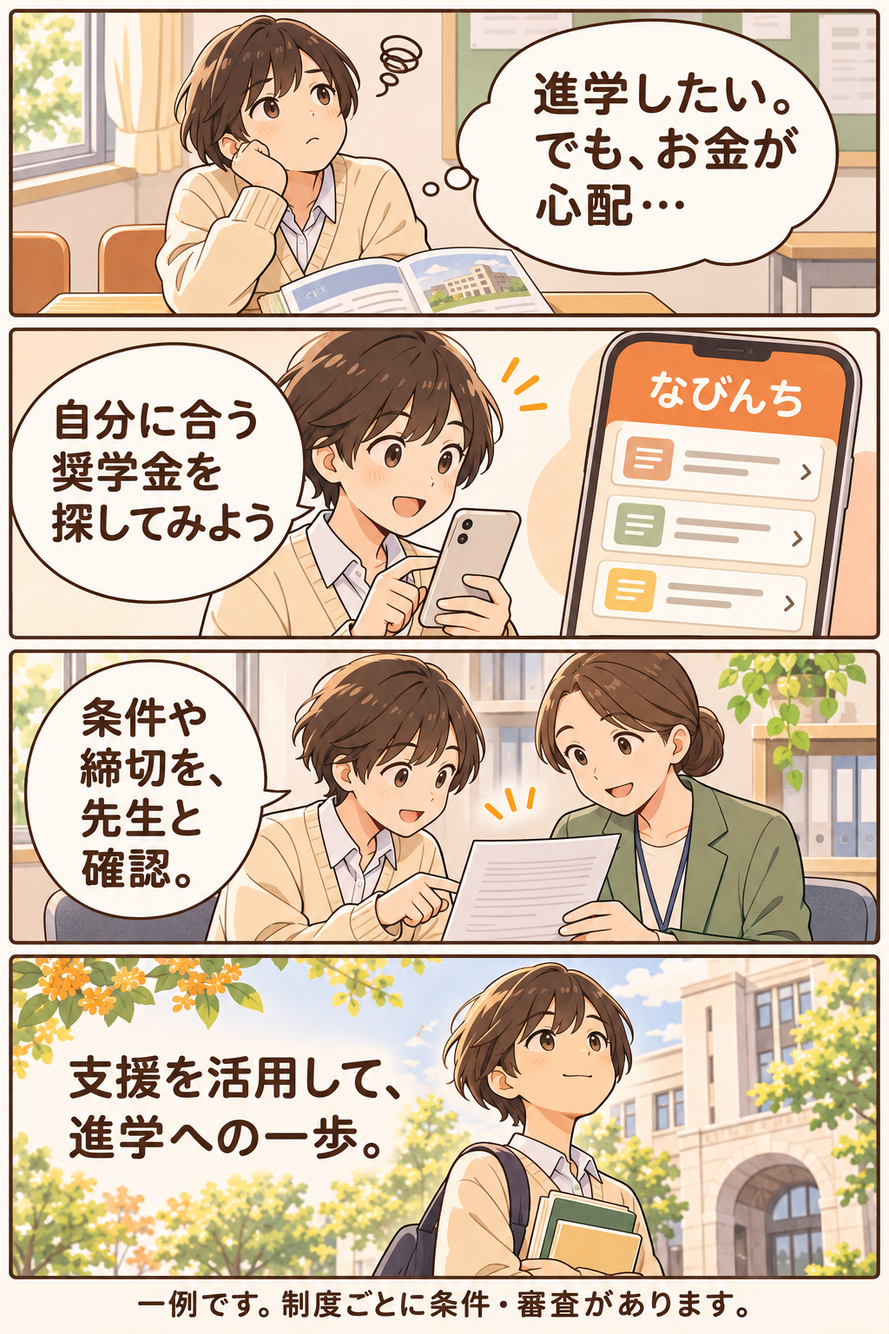
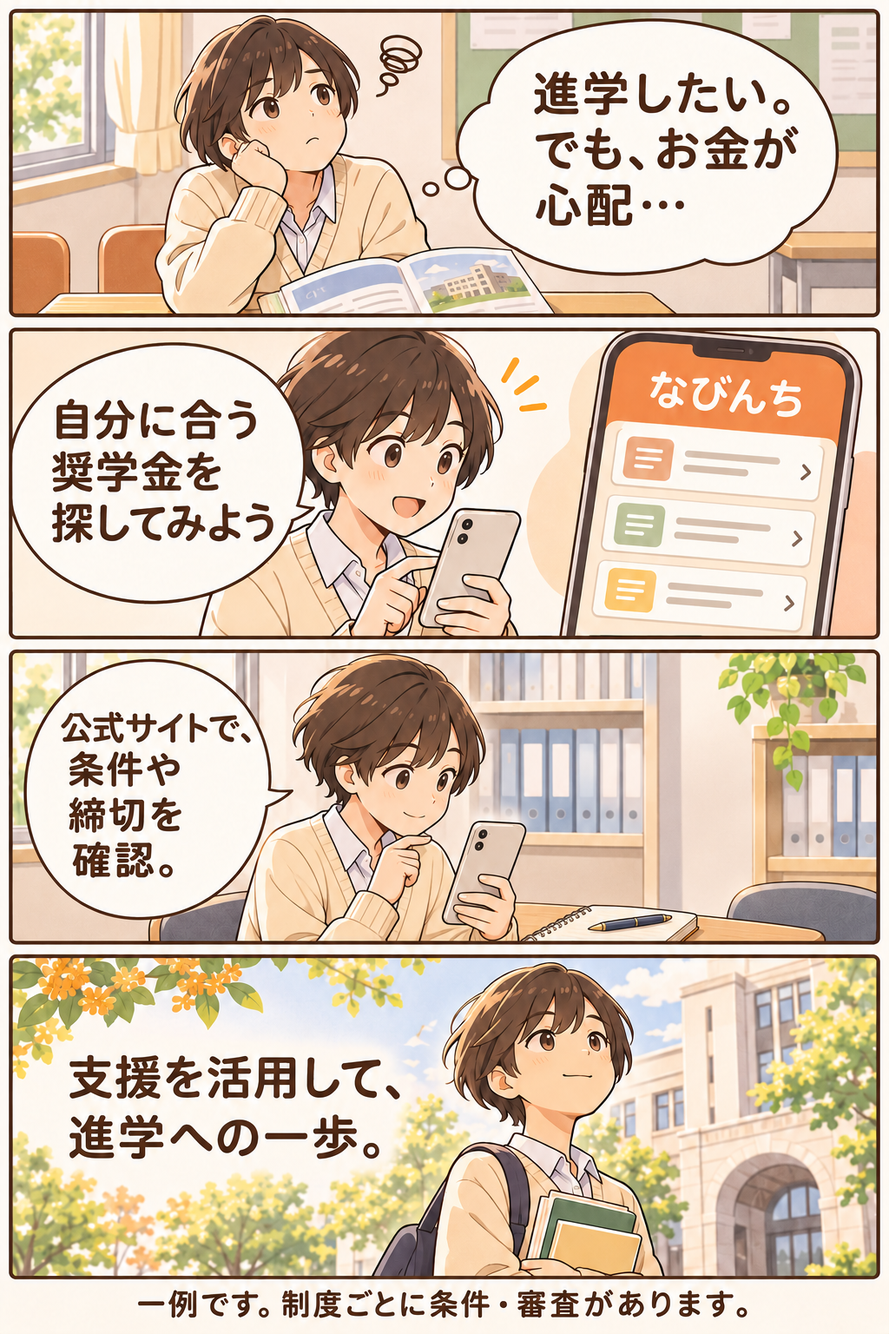
Update なびんち Pages

diff --git a/guide/index.html b/guide/index.html
@@ -1,9 +1,9 @@
 <!DOCTYPE html><html lang="ja"><head><meta charset="utf-8"><meta name="viewport" content="width=device-width, initial-scale=1, viewport-fit=cover, interactive-widget=resizes-content"><meta name="theme-color" content="#fbfaf8"><link rel="icon" type="image/svg+xml" href="/images/navinchi-mark.svg"><meta name="description" content="なびんちの紹介、奨学金・進学支援の探し方、公式情報を確認するときのポイントと相談先。"><meta name="robots" content="noindex,follow"><meta name="googlebot" content="noindex,follow"><meta name="referrer" content="no-referrer"><title>なびんちとは | なびんち | 奨学金・進学支援を探す</title><meta http-equiv="content-security-policy" content="default-src 'self';img-src 'self' data:;connect-src 'self';font-src 'self';frame-src 'none';object-src 'none';base-uri 'self';form-action 'self'; script-src 'self' 'sha256-xIb/Pa7FUshAu4ihwjchYcQpyCI8eS8kt40GpOAYCz8=' 'sha256-1BvDVWLr3QCC20uHhUDi27eDFVJpk1uMQJGIWKUks2I=' 'sha256-kmZE/W8I1iuTnl1b3yqzv9/DQZenPngd3NjSKMQl7y0=' 'sha256-Y8t0ntteBwH+PqGKUyjWW3CAk+BNJKSoQc0xZ68FjhM=' 'sha256-0O7iB6zr9x0r6X6eWYITC9V5q+yWCGAoFvcysBGbY9Q=' 'sha256-UIrFqcaitjA3OKa9mHKajg3N+0Y7tW9+y0o3QmMFeZQ=' 'sha256-At4sXbunobuxXv56+YxR7rwL4c3n8ubyPDiI7CIowSo='; style-src 'self' 'unsafe-inline' ;"><style>.manga-story__pages[data-astro-cid-mzuta5j2]{gap:2rem;padding:0;list-style:none;display:grid}.manga-story[data-astro-cid-mzuta5j2] figure[data-astro-cid-mzuta5j2]{margin:0}.manga-story[data-astro-cid-mzuta5j2] img[data-astro-cid-mzuta5j2]{width:100%;max-width:100%;height:auto;display:block}.manga-story[data-astro-cid-mzuta5j2] figcaption[data-astro-cid-mzuta5j2]{text-align:center;margin-top:.5rem;font-size:.85rem}.manga-story__zoom[data-astro-cid-mzuta5j2]{margin:.75rem 0 0;font-size:.9rem}.manga-story[data-astro-cid-mzuta5j2] details[data-astro-cid-mzuta5j2]{margin-top:.75rem}.manga-story[data-astro-cid-mzuta5j2] summary[data-astro-cid-mzuta5j2]{cursor:pointer}.manga-story[data-astro-cid-mzuta5j2] details[data-astro-cid-mzuta5j2] p[data-astro-cid-mzuta5j2]{white-space:pre-wrap}
-</style><link rel="stylesheet" href="/_astro/BaseLayout.BYQtE-vD.css"></head><body data-footer-layout="document"><a class="skip-link" href="#main" tabindex="0">本文へ移動</a><style>astro-island,astro-slot,astro-static-slot{display:contents}</style><script>(function(){let e=async e=>{await(await e())()};(self.Astro||(self.Astro={})).load=e,window.dispatchEvent(new Event(`astro:load`))})();</script><script>(function(){function e(t){"@babel/helpers - typeof";return e=typeof Symbol==`function`&&typeof Symbol.iterator==`symbol`?function(e){return typeof e}:function(e){return e&&typeof Symbol==`function`&&e.constructor===Symbol&&e!==Symbol.prototype?`symbol`:typeof e},e(t)}function t(t,n){if(e(t)!=`object`||!t)return t;var r=t[Symbol.toPrimitive];if(r!==void 0){var i=r.call(t,n||`default`);if(e(i)!=`object`)return i;throw TypeError(`@@toPrimitive must return a primitive value.`)}return(n===`string`?String:Number)(t)}function n(n){var r=t(n,`string`);return e(r)==`symbol`?r:r+``}function r(e,t,r){return(t=n(t))in e?Object.defineProperty(e,t,{value:r,enumerable:!0,configurable:!0,writable:!0}):e[t]=r,e}let i=/* @__PURE__ */ new Set([`__proto__`,`constructor`,`prototype`]);{let e={0:e=>a(e),1:e=>n(e),2:e=>new RegExp(e),3:e=>new Date(e),4:e=>new Map(n(e)),5:e=>new Set(n(e)),6:e=>BigInt(e),7:e=>new URL(e),8:e=>new Uint8Array(e),9:e=>new Uint16Array(e),10:e=>new Uint32Array(e),11:e=>1/0*e},t=t=>{let[n,r]=t;return n in e?e[n](r):void 0},n=e=>e.map(t),a=e=>typeof e!=`object`||!e?e:Object.fromEntries(Object.entries(e).map(([e,n])=>[e,t(n)]));class o extends HTMLElement{constructor(...e){super(...e),r(this,`Component`,void 0),r(this,`hydrator`,void 0),r(this,`hydrate`,async()=>{var e;if(!this.hydrator||!this.isConnected)return;let t=(e=this.parentElement)==null?void 0:e.closest(`astro-island[ssr]`);if(t){t.addEventListener(`astro:hydrate`,this.hydrate,{once:!0});return}let n=this.querySelectorAll(`astro-slot`),r={},i=this.querySelectorAll(`template[data-astro-template]`);for(let e of i){let t=e.closest(this.tagName);t!=null&&t.isSameNode(this)&&(r[e.getAttribute(`data-astro-template`)||`default`]=e.innerHTML,e.remove())}for(let e of n){let t=e.closest(this.tagName);t!=null&&t.isSameNode(this)&&(r[e.getAttribute(`name`)||`default`]=e.innerHTML)}let o;try{o=this.hasAttribute(`props`)?a(JSON.parse(this.getAttribute(`props`))):{}}catch(e){let t=this.getAttribute(`component-url`)||`<unknown>`,n=this.getAttribute(`component-export`);throw n&&(t+=` (export ${n})`),console.error(`[hydrate] Error parsing props for component ${t}`,this.getAttribute(`props`),e),e}await this.hydrator(this)(this.Component,o,r,{client:this.getAttribute(`client`)}),this.removeAttribute(`ssr`),this.dispatchEvent(new CustomEvent(`astro:hydrate`))}),r(this,`unmount`,()=>{this.isConnected||this.dispatchEvent(new CustomEvent(`astro:unmount`))})}disconnectedCallback(){document.removeEventListener(`astro:after-swap`,this.unmount),document.addEventListener(`astro:after-swap`,this.unmount,{once:!0})}connectedCallback(){if(!this.hasAttribute(`await-children`)||document.readyState===`interactive`||document.readyState===`complete`)this.childrenConnectedCallback();else{let e=()=>{document.removeEventListener(`DOMContentLoaded`,e),t.disconnect(),this.childrenConnectedCallback()},t=new MutationObserver(()=>{var t;((t=this.lastChild)==null?void 0:t.nodeType)===Node.COMMENT_NODE&&this.lastChild.nodeValue===`astro:end`&&(this.lastChild.remove(),e())});t.observe(this,{childList:!0}),document.addEventListener(`DOMContentLoaded`,e)}}async childrenConnectedCallback(){let e=this.getAttribute(`before-hydration-url`);e&&await import(e),this.start()}getRetryImportUrl(e){let t=new URL(e,document.baseURI);return t.searchParams.set(`astro-retry`,Date.now().toString()),t.toString()}async importWithRetry(e){try{return await import(e)}catch(t){return await new Promise(e=>setTimeout(e,1e3)),import(this.getRetryImportUrl(e))}}handleHydrationError(e){let t=this.getAttribute(`component-url`),n=new CustomEvent(`astro:hydration-error`,{cancelable:!0,bubbles:!0,composed:!0,detail:{error:e,componentUrl:t}});this.dispatchEvent(n)&&console.error(`[astro-island] Error hydrating ${t}`,e)}async start(){let e=JSON.parse(this.getAttribute(`opts`)),t=this.getAttribute(`client`);if(Astro[t]===void 0)window.addEventListener(`astro:${t}`,()=>this.start(),{once:!0});else try{await Astro[t](async()=>{let e=this.getAttribute(`renderer-url`);try{let[t,{default:n}]=await Promise.all([this.importWithRetry(this.getAttribute(`component-url`)),e?this.importWithRetry(e):Promise.resolve({default:()=>()=>{}})]),r=this.getAttribute(`component-export`)||`default`;if(r.includes(`.`)){this.Component=t;for(let e of r.split(`.`)){if(i.has(e)||!this.Component||typeof this.Component!=`object`&&typeof this.Component!=`function`||!Object.hasOwn(this.Component,e))throw Error(`Invalid component export path: ${r}`);this.Component=this.Component[e]}}else{if(i.has(r))throw Error(`Invalid component export path: ${r}`);this.Component=t[r]}return this.hydrator=n,this.hydrate}catch(e){return this.handleHydrationError(e),()=>{}}},e,this)}catch(e){this.handleHydrationError(e)}}attributeChangedCallback(){this.hydrate()}}r(o,`observedAttributes`,[`props`]),customElements.get(`astro-island`)||customElements.define(`astro-island`,o)}})();</script><astro-island uid="NIeOL" prefix="r8" component-url="/_astro/SiteHeader.D13RHEca.js" component-export="SiteHeader" renderer-url="/_astro/client.BJQPcj77.js" props="{&quot;pathname&quot;:[0,&quot;/guide/&quot;]}" ssr client="load" opts="{&quot;name&quot;:&quot;SiteHeader&quot;,&quot;value&quot;:true}" await-children><header class="site-header"><div class="container site-header__inner"><button class="menu-trigger" aria-label="メニューを開く" aria-haspopup="dialog" aria-controls="mobile-menu" aria-expanded="false"><svg width="24" height="24" viewBox="0 0 24 24" fill="none" stroke="currentColor" stroke-width="2" aria-hidden="true"><path d="M3 5h18M3 12h18M3 19h18"></path></svg><span>メニュー</span></button><a href="/" class="site-header__brand" aria-label="なびんち 奨学金・進学支援 ホーム"><img class="site-logo" src="/images/navinchi-logo.png" width="2172" height="724" alt="なびんち" decoding="async"/><span class="visually-hidden">奨学金・進学支援</span></a><nav aria-label="サイト内" class="site-nav desktop-nav"><a href="/"><svg class="icon" width="20" height="20" viewBox="0 0 24 24" fill="none" stroke="currentColor" stroke-width="1.8" stroke-linecap="round" stroke-linejoin="round" aria-hidden="true" focusable="false"><path d="m21 21-4.5-4.5 M19 10.5a8.5 8.5 0 1 1-17 0 8.5 8.5 0 0 1 17 0"></path></svg><span>制度を探す</span></a><a href="/guide/" aria-current="page"><svg class="icon" width="20" height="20" viewBox="0 0 24 24" fill="none" stroke="currentColor" stroke-width="1.8" stroke-linecap="round" stroke-linejoin="round" aria-hidden="true" focusable="false"><path d="M12 6v15 M3 4h5a4 4 0 0 1 4 4 4 4 0 0 1 4-4h5v15h-5a4 4 0 0 0-4 2 4 4 0 0 0-4-2H3Z"></path></svg><span>なびんちとは</span></a><a href="/request/"><svg class="icon" width="20" height="20" viewBox="0 0 24 24" fill="none" stroke="currentColor" stroke-width="1.8" stroke-linecap="round" stroke-linejoin="round" aria-hidden="true" focusable="false"><path d="M4 4h16v12H9l-5 4V4Z M8 8h8 M8 12h5"></path></svg><span>情報提供</span></a><a href="/updates/"><svg class="icon" width="20" height="20" viewBox="0 0 24 24" fill="none" stroke="currentColor" stroke-width="1.8" stroke-linecap="round" stroke-linejoin="round" aria-hidden="true" focusable="false"><path d="M12 6v15 M3 4h5a4 4 0 0 1 4 4 4 4 0 0 1 4-4h5v15h-5a4 4 0 0 0-4 2 4 4 0 0 0-4-2H3Z"></path></svg><span>更新履歴</span></a></nav></div><dialog id="mobile-menu" class="mobile-drawer" aria-labelledby="menu-heading"><div class="drawer-heading"><div><h2 id="menu-heading"><img class="drawer-logo" src="/images/navinchi-logo.png" width="2172" height="724" alt="なびんち" decoding="async"/></h2><p class="drawer-subtitle">奨学金・進学支援</p></div><button class="drawer-close" aria-label="メニューを閉じる"><svg class="icon" width="20" height="20" viewBox="0 0 24 24" fill="none" stroke="currentColor" stroke-width="1.8" stroke-linecap="round" stroke-linejoin="round" aria-hidden="true" focusable="false"><path d="m6 6 12 12 M18 6 6 18"></path></svg><span>閉じる</span></button></div><p class="drawer-intro">わかることから、<strong>次の一歩</strong>を探そう。</p><nav aria-label="メニュー内"><a href="/"><svg class="icon" width="20" height="20" viewBox="0 0 24 24" fill="none" stroke="currentColor" stroke-width="1.8" stroke-linecap="round" stroke-linejoin="round" aria-hidden="true" focusable="false"><path d="m21 21-4.5-4.5 M19 10.5a8.5 8.5 0 1 1-17 0 8.5 8.5 0 0 1 17 0"></path></svg><span>制度を探す</span></a><a href="/guide/" aria-current="page"><svg class="icon" width="20" height="20" viewBox="0 0 24 24" fill="none" stroke="currentColor" stroke-width="1.8" stroke-linecap="round" stroke-linejoin="round" aria-hidden="true" focusable="false"><path d="M12 6v15 M3 4h5a4 4 0 0 1 4 4 4 4 0 0 1 4-4h5v15h-5a4 4 0 0 0-4 2 4 4 0 0 0-4-2H3Z"></path></svg><span>なびんちとは</span></a><a href="/request/"><svg class="icon" width="20" height="20" viewBox="0 0 24 24" fill="none" stroke="currentColor" stroke-width="1.8" stroke-linecap="round" stroke-linejoin="round" aria-hidden="true" focusable="false"><path d="M4 4h16v12H9l-5 4V4Z M8 8h8 M8 12h5"></path></svg><span>情報提供</span></a><a href="/updates/"><svg class="icon" width="20" height="20" viewBox="0 0 24 24" fill="none" stroke="currentColor" stroke-width="1.8" stroke-linecap="round" stroke-linejoin="round" aria-hidden="true" focusable="false"><path d="M12 6v15 M3 4h5a4 4 0 0 1 4 4 4 4 0 0 1 4-4h5v15h-5a4 4 0 0 0-4 2 4 4 0 0 0-4-2H3Z"></path></svg><span>更新履歴</span></a></nav><div class="drawer-note"><svg class="icon" width="18" height="18" viewBox="0 0 24 24" fill="none" stroke="currentColor" stroke-width="1.8" stroke-linecap="round" stroke-linejoin="round" aria-hidden="true" focusable="false"><path d="M22 12a10 10 0 1 1-20 0 10 10 0 0 1 20 0 M12 11v6 M12 7v.1"></path></svg><p><strong>ログインせずに探せます。</strong><br/>すべての条件がわからなくても大丈夫。</p></div><a class="drawer-consult" href="/guide/#consult"><svg class="icon" width="18" height="18" viewBox="0 0 24 24" fill="none" stroke="currentColor" stroke-width="1.8" stroke-linecap="round" stroke-linejoin="round" aria-hidden="true" focusable="false"><path d="M9 11a4 4 0 1 0 0-8 4 4 0 0 0 0 8 M2 21v-3a6 6 0 0 1 12 0v3 M16 4a4 4 0 0 1 0 8 M18 15a5 5 0 0 1 4 5v1"></path></svg>迷ったときの相談先<svg class="icon" width="16" height="16" viewBox="0 0 24 24" fill="none" stroke="currentColor" stroke-width="1.8" stroke-linecap="round" stroke-linejoin="round" aria-hidden="true" focusable="false"><path d="M4 12h16 m-6-6 6 6-6 6"></path></svg></a></dialog></header><!--astro:end--></astro-island><main id="main" class="container" tabindex="-1"><article class="prose guide-page"><p class="home-intro__eyebrow"><svg class="icon" width="18" height="18" viewBox="0 0 24 24" fill="none" stroke="currentColor" stroke-width="1.8" stroke-linecap="round" stroke-linejoin="round" aria-hidden="true" focusable="false"><path d="M12 6v15 M3 4h5a4 4 0 0 1 4 4 4 4 0 0 1 4-4h5v15h-5a4 4 0 0 0-4 2 4 4 0 0 0-4-2H3Z"></path></svg>はじめての方へ</p><h1>なびんちとは</h1><p class="lead">進学したいけれど、お金が心配。なびんちは、そんなときに奨学金や進学を支える制度の情報を探せるサイトです。</p><p>学校や支援の内容、地域など、わかることから探せます。気になる制度が見つかったら、募集要項や相談先を確認してみましょう。</p><section class="manga-story" aria-labelledby="manga-story-title" data-astro-cid-mzuta5j2><h2 id="manga-story-title" data-astro-cid-mzuta5j2>漫画で見るなびんち</h2><ol class="manga-story__pages" data-astro-cid-mzuta5j2><li data-astro-cid-mzuta5j2><figure data-astro-cid-mzuta5j2><img src="/images/navinchi-about-comic.png" alt="進学費用に悩む高校生が、なびんちで奨学金を探し、先生と条件を確認して進学への一歩を踏み出す4コマ漫画。" width="1024" height="1536" loading="lazy" decoding="async" data-astro-cid-mzuta5j2></figure><p class="manga-story__zoom" data-astro-cid-mzuta5j2><a href="/images/navinchi-about-comic.png" data-astro-cid-mzuta5j2>画像を拡大して見る</a></p><details data-astro-cid-mzuta5j2><summary data-astro-cid-mzuta5j2>このページの内容をテキストで読む</summary><p data-astro-cid-mzuta5j2>1コマ目：高校生が進学の資料を見ながら考えます。「進学したい。でも、お金が心配…」
+</style><link rel="stylesheet" href="/_astro/BaseLayout.BYQtE-vD.css"></head><body data-footer-layout="document"><a class="skip-link" href="#main" tabindex="0">本文へ移動</a><style>astro-island,astro-slot,astro-static-slot{display:contents}</style><script>(function(){let e=async e=>{await(await e())()};(self.Astro||(self.Astro={})).load=e,window.dispatchEvent(new Event(`astro:load`))})();</script><script>(function(){function e(t){"@babel/helpers - typeof";return e=typeof Symbol==`function`&&typeof Symbol.iterator==`symbol`?function(e){return typeof e}:function(e){return e&&typeof Symbol==`function`&&e.constructor===Symbol&&e!==Symbol.prototype?`symbol`:typeof e},e(t)}function t(t,n){if(e(t)!=`object`||!t)return t;var r=t[Symbol.toPrimitive];if(r!==void 0){var i=r.call(t,n||`default`);if(e(i)!=`object`)return i;throw TypeError(`@@toPrimitive must return a primitive value.`)}return(n===`string`?String:Number)(t)}function n(n){var r=t(n,`string`);return e(r)==`symbol`?r:r+``}function r(e,t,r){return(t=n(t))in e?Object.defineProperty(e,t,{value:r,enumerable:!0,configurable:!0,writable:!0}):e[t]=r,e}let i=/* @__PURE__ */ new Set([`__proto__`,`constructor`,`prototype`]);{let e={0:e=>a(e),1:e=>n(e),2:e=>new RegExp(e),3:e=>new Date(e),4:e=>new Map(n(e)),5:e=>new Set(n(e)),6:e=>BigInt(e),7:e=>new URL(e),8:e=>new Uint8Array(e),9:e=>new Uint16Array(e),10:e=>new Uint32Array(e),11:e=>1/0*e},t=t=>{let[n,r]=t;return n in e?e[n](r):void 0},n=e=>e.map(t),a=e=>typeof e!=`object`||!e?e:Object.fromEntries(Object.entries(e).map(([e,n])=>[e,t(n)]));class o extends HTMLElement{constructor(...e){super(...e),r(this,`Component`,void 0),r(this,`hydrator`,void 0),r(this,`hydrate`,async()=>{var e;if(!this.hydrator||!this.isConnected)return;let t=(e=this.parentElement)==null?void 0:e.closest(`astro-island[ssr]`);if(t){t.addEventListener(`astro:hydrate`,this.hydrate,{once:!0});return}let n=this.querySelectorAll(`astro-slot`),r={},i=this.querySelectorAll(`template[data-astro-template]`);for(let e of i){let t=e.closest(this.tagName);t!=null&&t.isSameNode(this)&&(r[e.getAttribute(`data-astro-template`)||`default`]=e.innerHTML,e.remove())}for(let e of n){let t=e.closest(this.tagName);t!=null&&t.isSameNode(this)&&(r[e.getAttribute(`name`)||`default`]=e.innerHTML)}let o;try{o=this.hasAttribute(`props`)?a(JSON.parse(this.getAttribute(`props`))):{}}catch(e){let t=this.getAttribute(`component-url`)||`<unknown>`,n=this.getAttribute(`component-export`);throw n&&(t+=` (export ${n})`),console.error(`[hydrate] Error parsing props for component ${t}`,this.getAttribute(`props`),e),e}await this.hydrator(this)(this.Component,o,r,{client:this.getAttribute(`client`)}),this.removeAttribute(`ssr`),this.dispatchEvent(new CustomEvent(`astro:hydrate`))}),r(this,`unmount`,()=>{this.isConnected||this.dispatchEvent(new CustomEvent(`astro:unmount`))})}disconnectedCallback(){document.removeEventListener(`astro:after-swap`,this.unmount),document.addEventListener(`astro:after-swap`,this.unmount,{once:!0})}connectedCallback(){if(!this.hasAttribute(`await-children`)||document.readyState===`interactive`||document.readyState===`complete`)this.childrenConnectedCallback();else{let e=()=>{document.removeEventListener(`DOMContentLoaded`,e),t.disconnect(),this.childrenConnectedCallback()},t=new MutationObserver(()=>{var t;((t=this.lastChild)==null?void 0:t.nodeType)===Node.COMMENT_NODE&&this.lastChild.nodeValue===`astro:end`&&(this.lastChild.remove(),e())});t.observe(this,{childList:!0}),document.addEventListener(`DOMContentLoaded`,e)}}async childrenConnectedCallback(){let e=this.getAttribute(`before-hydration-url`);e&&await import(e),this.start()}getRetryImportUrl(e){let t=new URL(e,document.baseURI);return t.searchParams.set(`astro-retry`,Date.now().toString()),t.toString()}async importWithRetry(e){try{return await import(e)}catch(t){return await new Promise(e=>setTimeout(e,1e3)),import(this.getRetryImportUrl(e))}}handleHydrationError(e){let t=this.getAttribute(`component-url`),n=new CustomEvent(`astro:hydration-error`,{cancelable:!0,bubbles:!0,composed:!0,detail:{error:e,componentUrl:t}});this.dispatchEvent(n)&&console.error(`[astro-island] Error hydrating ${t}`,e)}async start(){let e=JSON.parse(this.getAttribute(`opts`)),t=this.getAttribute(`client`);if(Astro[t]===void 0)window.addEventListener(`astro:${t}`,()=>this.start(),{once:!0});else try{await Astro[t](async()=>{let e=this.getAttribute(`renderer-url`);try{let[t,{default:n}]=await Promise.all([this.importWithRetry(this.getAttribute(`component-url`)),e?this.importWithRetry(e):Promise.resolve({default:()=>()=>{}})]),r=this.getAttribute(`component-export`)||`default`;if(r.includes(`.`)){this.Component=t;for(let e of r.split(`.`)){if(i.has(e)||!this.Component||typeof this.Component!=`object`&&typeof this.Component!=`function`||!Object.hasOwn(this.Component,e))throw Error(`Invalid component export path: ${r}`);this.Component=this.Component[e]}}else{if(i.has(r))throw Error(`Invalid component export path: ${r}`);this.Component=t[r]}return this.hydrator=n,this.hydrate}catch(e){return this.handleHydrationError(e),()=>{}}},e,this)}catch(e){this.handleHydrationError(e)}}attributeChangedCallback(){this.hydrate()}}r(o,`observedAttributes`,[`props`]),customElements.get(`astro-island`)||customElements.define(`astro-island`,o)}})();</script><astro-island uid="NIeOL" prefix="r8" component-url="/_astro/SiteHeader.D13RHEca.js" component-export="SiteHeader" renderer-url="/_astro/client.BJQPcj77.js" props="{&quot;pathname&quot;:[0,&quot;/guide/&quot;]}" ssr client="load" opts="{&quot;name&quot;:&quot;SiteHeader&quot;,&quot;value&quot;:true}" await-children><header class="site-header"><div class="container site-header__inner"><button class="menu-trigger" aria-label="メニューを開く" aria-haspopup="dialog" aria-controls="mobile-menu" aria-expanded="false"><svg width="24" height="24" viewBox="0 0 24 24" fill="none" stroke="currentColor" stroke-width="2" aria-hidden="true"><path d="M3 5h18M3 12h18M3 19h18"></path></svg><span>メニュー</span></button><a href="/" class="site-header__brand" aria-label="なびんち 奨学金・進学支援 ホーム"><img class="site-logo" src="/images/navinchi-logo.png" width="2172" height="724" alt="なびんち" decoding="async"/><span class="visually-hidden">奨学金・進学支援</span></a><nav aria-label="サイト内" class="site-nav desktop-nav"><a href="/"><svg class="icon" width="20" height="20" viewBox="0 0 24 24" fill="none" stroke="currentColor" stroke-width="1.8" stroke-linecap="round" stroke-linejoin="round" aria-hidden="true" focusable="false"><path d="m21 21-4.5-4.5 M19 10.5a8.5 8.5 0 1 1-17 0 8.5 8.5 0 0 1 17 0"></path></svg><span>制度を探す</span></a><a href="/guide/" aria-current="page"><svg class="icon" width="20" height="20" viewBox="0 0 24 24" fill="none" stroke="currentColor" stroke-width="1.8" stroke-linecap="round" stroke-linejoin="round" aria-hidden="true" focusable="false"><path d="M12 6v15 M3 4h5a4 4 0 0 1 4 4 4 4 0 0 1 4-4h5v15h-5a4 4 0 0 0-4 2 4 4 0 0 0-4-2H3Z"></path></svg><span>なびんちとは</span></a><a href="/request/"><svg class="icon" width="20" height="20" viewBox="0 0 24 24" fill="none" stroke="currentColor" stroke-width="1.8" stroke-linecap="round" stroke-linejoin="round" aria-hidden="true" focusable="false"><path d="M4 4h16v12H9l-5 4V4Z M8 8h8 M8 12h5"></path></svg><span>情報提供</span></a><a href="/updates/"><svg class="icon" width="20" height="20" viewBox="0 0 24 24" fill="none" stroke="currentColor" stroke-width="1.8" stroke-linecap="round" stroke-linejoin="round" aria-hidden="true" focusable="false"><path d="M12 6v15 M3 4h5a4 4 0 0 1 4 4 4 4 0 0 1 4-4h5v15h-5a4 4 0 0 0-4 2 4 4 0 0 0-4-2H3Z"></path></svg><span>更新履歴</span></a></nav></div><dialog id="mobile-menu" class="mobile-drawer" aria-labelledby="menu-heading"><div class="drawer-heading"><div><h2 id="menu-heading"><img class="drawer-logo" src="/images/navinchi-logo.png" width="2172" height="724" alt="なびんち" decoding="async"/></h2><p class="drawer-subtitle">奨学金・進学支援</p></div><button class="drawer-close" aria-label="メニューを閉じる"><svg class="icon" width="20" height="20" viewBox="0 0 24 24" fill="none" stroke="currentColor" stroke-width="1.8" stroke-linecap="round" stroke-linejoin="round" aria-hidden="true" focusable="false"><path d="m6 6 12 12 M18 6 6 18"></path></svg><span>閉じる</span></button></div><p class="drawer-intro">わかることから、<strong>次の一歩</strong>を探そう。</p><nav aria-label="メニュー内"><a href="/"><svg class="icon" width="20" height="20" viewBox="0 0 24 24" fill="none" stroke="currentColor" stroke-width="1.8" stroke-linecap="round" stroke-linejoin="round" aria-hidden="true" focusable="false"><path d="m21 21-4.5-4.5 M19 10.5a8.5 8.5 0 1 1-17 0 8.5 8.5 0 0 1 17 0"></path></svg><span>制度を探す</span></a><a href="/guide/" aria-current="page"><svg class="icon" width="20" height="20" viewBox="0 0 24 24" fill="none" stroke="currentColor" stroke-width="1.8" stroke-linecap="round" stroke-linejoin="round" aria-hidden="true" focusable="false"><path d="M12 6v15 M3 4h5a4 4 0 0 1 4 4 4 4 0 0 1 4-4h5v15h-5a4 4 0 0 0-4 2 4 4 0 0 0-4-2H3Z"></path></svg><span>なびんちとは</span></a><a href="/request/"><svg class="icon" width="20" height="20" viewBox="0 0 24 24" fill="none" stroke="currentColor" stroke-width="1.8" stroke-linecap="round" stroke-linejoin="round" aria-hidden="true" focusable="false"><path d="M4 4h16v12H9l-5 4V4Z M8 8h8 M8 12h5"></path></svg><span>情報提供</span></a><a href="/updates/"><svg class="icon" width="20" height="20" viewBox="0 0 24 24" fill="none" stroke="currentColor" stroke-width="1.8" stroke-linecap="round" stroke-linejoin="round" aria-hidden="true" focusable="false"><path d="M12 6v15 M3 4h5a4 4 0 0 1 4 4 4 4 0 0 1 4-4h5v15h-5a4 4 0 0 0-4 2 4 4 0 0 0-4-2H3Z"></path></svg><span>更新履歴</span></a></nav><div class="drawer-note"><svg class="icon" width="18" height="18" viewBox="0 0 24 24" fill="none" stroke="currentColor" stroke-width="1.8" stroke-linecap="round" stroke-linejoin="round" aria-hidden="true" focusable="false"><path d="M22 12a10 10 0 1 1-20 0 10 10 0 0 1 20 0 M12 11v6 M12 7v.1"></path></svg><p><strong>ログインせずに探せます。</strong><br/>すべての条件がわからなくても大丈夫。</p></div><a class="drawer-consult" href="/guide/#consult"><svg class="icon" width="18" height="18" viewBox="0 0 24 24" fill="none" stroke="currentColor" stroke-width="1.8" stroke-linecap="round" stroke-linejoin="round" aria-hidden="true" focusable="false"><path d="M9 11a4 4 0 1 0 0-8 4 4 0 0 0 0 8 M2 21v-3a6 6 0 0 1 12 0v3 M16 4a4 4 0 0 1 0 8 M18 15a5 5 0 0 1 4 5v1"></path></svg>迷ったときの相談先<svg class="icon" width="16" height="16" viewBox="0 0 24 24" fill="none" stroke="currentColor" stroke-width="1.8" stroke-linecap="round" stroke-linejoin="round" aria-hidden="true" focusable="false"><path d="M4 12h16 m-6-6 6 6-6 6"></path></svg></a></dialog></header><!--astro:end--></astro-island><main id="main" class="container" tabindex="-1"><article class="prose guide-page"><p class="home-intro__eyebrow"><svg class="icon" width="18" height="18" viewBox="0 0 24 24" fill="none" stroke="currentColor" stroke-width="1.8" stroke-linecap="round" stroke-linejoin="round" aria-hidden="true" focusable="false"><path d="M12 6v15 M3 4h5a4 4 0 0 1 4 4 4 4 0 0 1 4-4h5v15h-5a4 4 0 0 0-4 2 4 4 0 0 0-4-2H3Z"></path></svg>はじめての方へ</p><h1>なびんちとは</h1><p class="lead">進学したいけれど、お金が心配。なびんちは、そんなときに奨学金や進学を支える制度の情報を探せるサイトです。</p><p>学校や支援の内容、地域など、わかることから探せます。気になる制度が見つかったら、募集要項や相談先を確認してみましょう。</p><section class="manga-story" aria-labelledby="manga-story-title" data-astro-cid-mzuta5j2><h2 id="manga-story-title" data-astro-cid-mzuta5j2>漫画で見るなびんち</h2><ol class="manga-story__pages" data-astro-cid-mzuta5j2><li data-astro-cid-mzuta5j2><figure data-astro-cid-mzuta5j2><img src="/images/navinchi-about-comic.png" alt="進学費用に悩む高校生が、なびんちで奨学金を探し、一人で公式サイトの条件や締切を確認して進学への一歩を踏み出す4コマ漫画。" width="1024" height="1536" loading="lazy" decoding="async" data-astro-cid-mzuta5j2></figure><p class="manga-story__zoom" data-astro-cid-mzuta5j2><a href="/images/navinchi-about-comic.png" data-astro-cid-mzuta5j2>画像を拡大して見る</a></p><details data-astro-cid-mzuta5j2><summary data-astro-cid-mzuta5j2>このページの内容をテキストで読む</summary><p data-astro-cid-mzuta5j2>1コマ目：高校生が進学の資料を見ながら考えます。「進学したい。でも、お金が心配…」
 
 2コマ目：スマートフォンのなびんちの画面を見ます。「自分に合う奨学金を探してみよう」
 
-3コマ目：先生と書類を確認します。「条件や締切を、先生と確認。」
+3コマ目：高校生が一人でスマートフォンを使って、公式サイトの募集情報を確認します。「公式サイトで、条件や締切を確認。」
 
 4コマ目：本を抱えた高校生が校舎の前に立っています。「支援を活用して、進学への一歩。」
 
